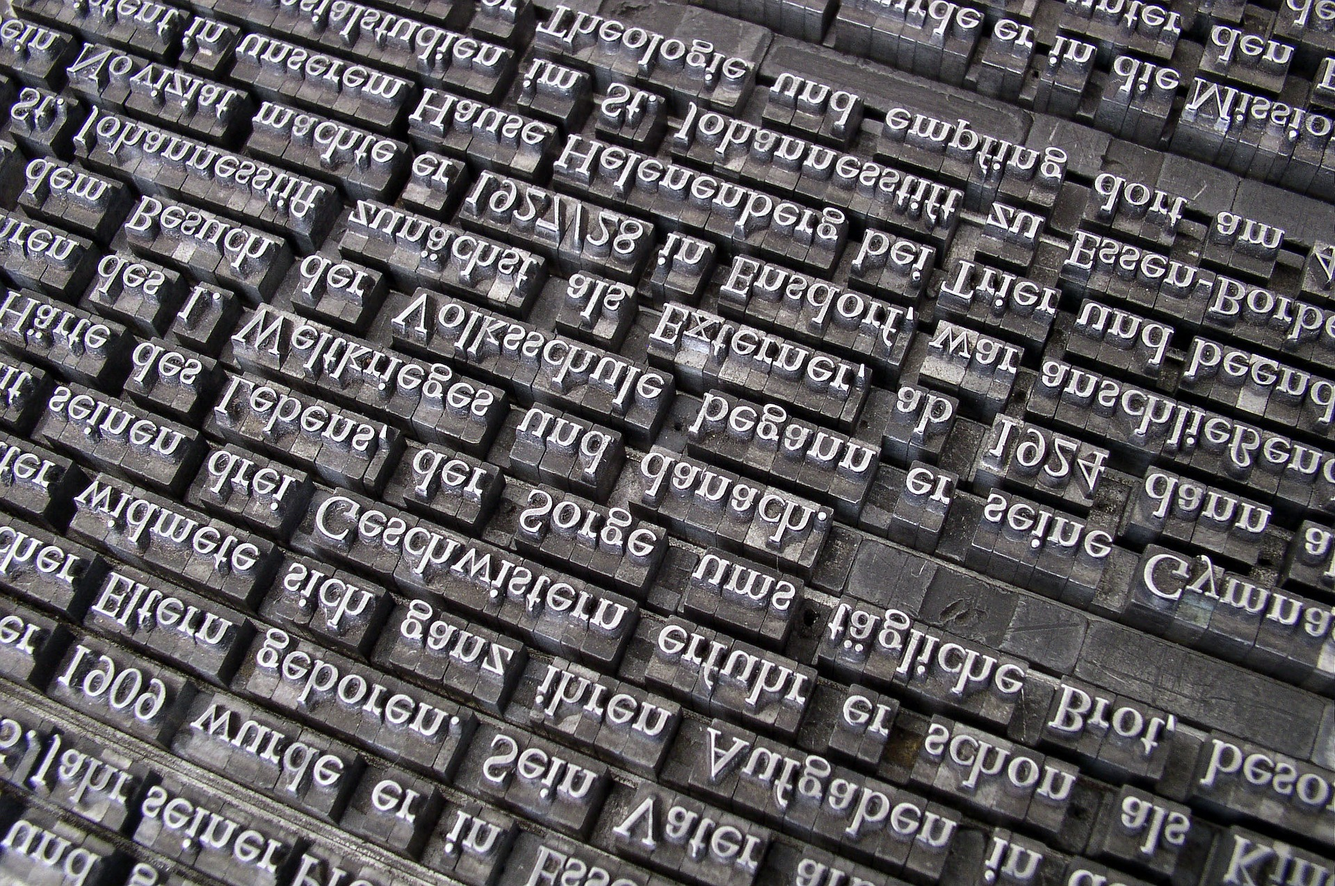
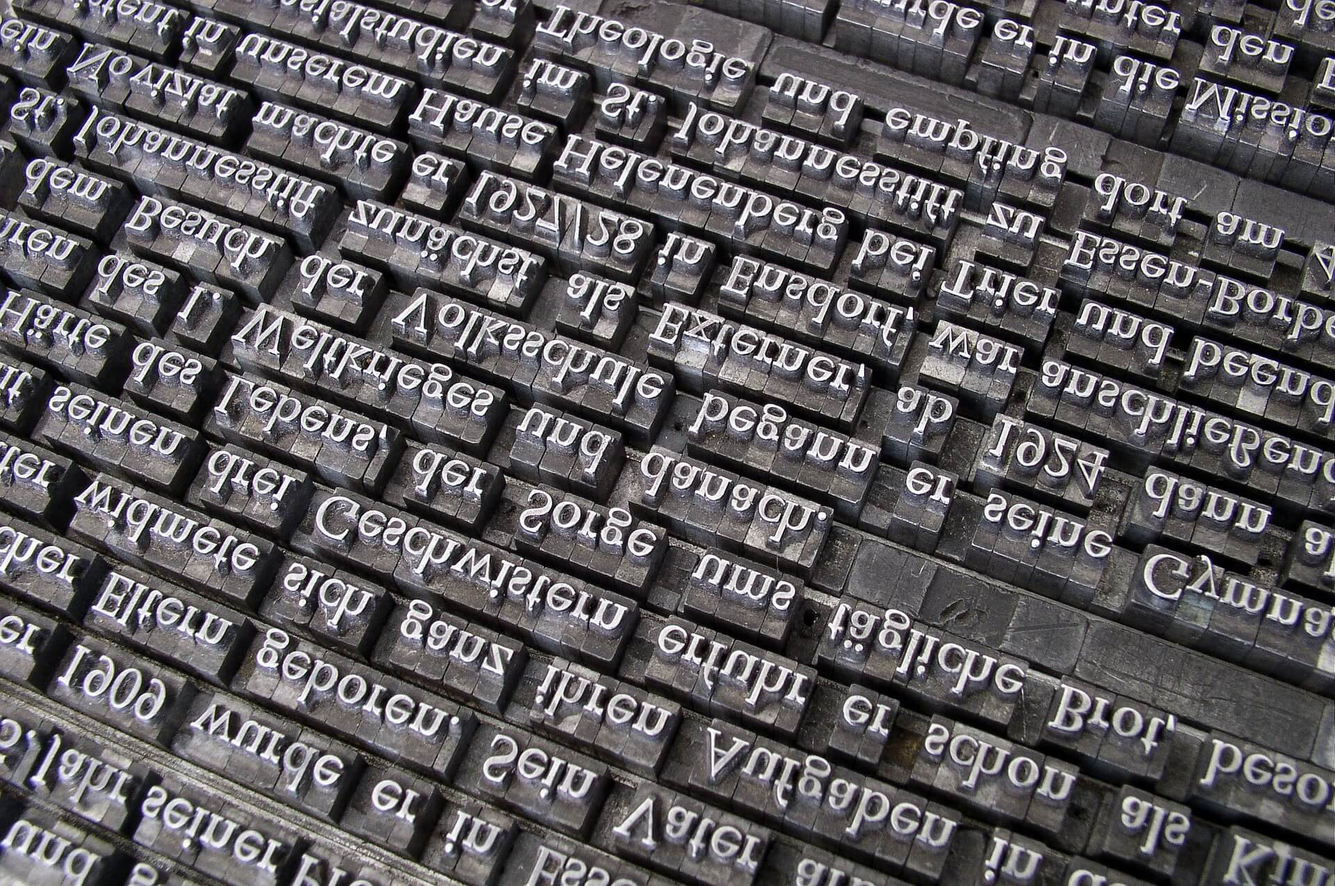
add smaller pictures

diff --git a/src/components/course/rate.vue b/src/components/course/rate.vue
@@ -676,48 +676,48 @@ export default {
     setAlertState() {
       return this.$store.dispatch("setAlertState", false)
     },
-    pressRate() {
-      //按rate触发这个
-      this.pressedRate = true;
-    },
-    addrating() {
-      //按了confirm之后触发这个
+    // pressRate() {
+    //   //按rate触发这个
+    //   this.pressedRate = true;
+    // },
+    // addrating() {
+    //   //按了confirm之后触发这个
 
-      var time = new Date();
-      const now =
-        time.getFullYear() + "-" + (time.getMonth() + 1) + "-" + time.getDate();
-      var currating;
-      const user = this.$store.getters.user
-        ? this.$store.getters.user
-        : "unknown";
-      if (user != "unknown") {
-        currating = {
-          classname: this.$route.params.name,
-          user: user,
-          // "comment": this.formData.comment,
-          time: now,
-          time_log: time,
-          rate: this.difficultyRating,
-          // "pname": this.formData.pname
-        };
-      } else {
-        currating = {
-          classname: this.$route.params.name,
-          time_log: time,
-          time: now,
-          rate: this.difficultyRating,
-          // "pname": this.formData.pname
-        };
-      }
+    //   var time = new Date();
+    //   const now =
+    //     time.getFullYear() + "-" + (time.getMonth() + 1) + "-" + time.getDate();
+    //   var currating;
+    //   const user = this.$store.getters.user
+    //     ? this.$store.getters.user
+    //     : "unknown";
+    //   if (user != "unknown") {
+    //     currating = {
+    //       classname: this.$route.params.name,
+    //       user: user,
+    //       // "comment": this.formData.comment,
+    //       time: now,
+    //       time_log: time,
+    //       rate: this.difficultyRating,
+    //       // "pname": this.formData.pname
+    //     };
+    //   } else {
+    //     currating = {
+    //       classname: this.$route.params.name,
+    //       time_log: time,
+    //       time: now,
+    //       rate: this.difficultyRating,
+    //       // "pname": this.formData.pname
+    //     };
+    //   }
 
-      if (this.difficultyRating != -1) {
-        this.$store.dispatch("addRating", currating);
-      }
+    //   if (this.difficultyRating != -1) {
+    //     this.$store.dispatch("addRating", currating);
+    //   }
 
-      // return to normal
-      this.pressedRate = false;
-      this.difficultyRating = -1;
-    },
+    //   // return to normal
+    //   this.pressedRate = false;
+    //   this.difficultyRating = -1;
+    // },
     addcomment(position) {
       //判断是否登录
       if(this.userLoggedIn) {

diff --git a/public/index.html b/public/index.html
@@ -60,9 +60,9 @@
 
   </head>
   <body style="height: 100vh">
-    <noscript>
+    <!-- <noscript>
       <strong>We're sorry but <%= htmlWebpackPlugin.options.title %> doesn't work properly without JavaScript enabled. Please enable it to continue.</strong>
-    </noscript>
+    </noscript> -->
     <script src="https://www.gstatic.com/firebasejs/8.7.0/firebase-app.js"></script>
     <script src="https://www.gstatic.com/firebasejs/8.7.0/firebase-analytics.js"></script>
 

diff --git a/src/store/index.js b/src/store/index.js
@@ -583,6 +583,12 @@ export const store = new Vuex.Store({
     async purgeUserReview({
       commit
     }, payload) {
+      // make an exception for the following email, allow them to do multiple reviews for a course!
+      if (payload.user.email="uofthub@gmail.com"){
+        return
+      }
+
+
       let uid = payload.user.id
       let className = payload.classname
       //Delete the review record from user/records, course/rating, and course/comments
